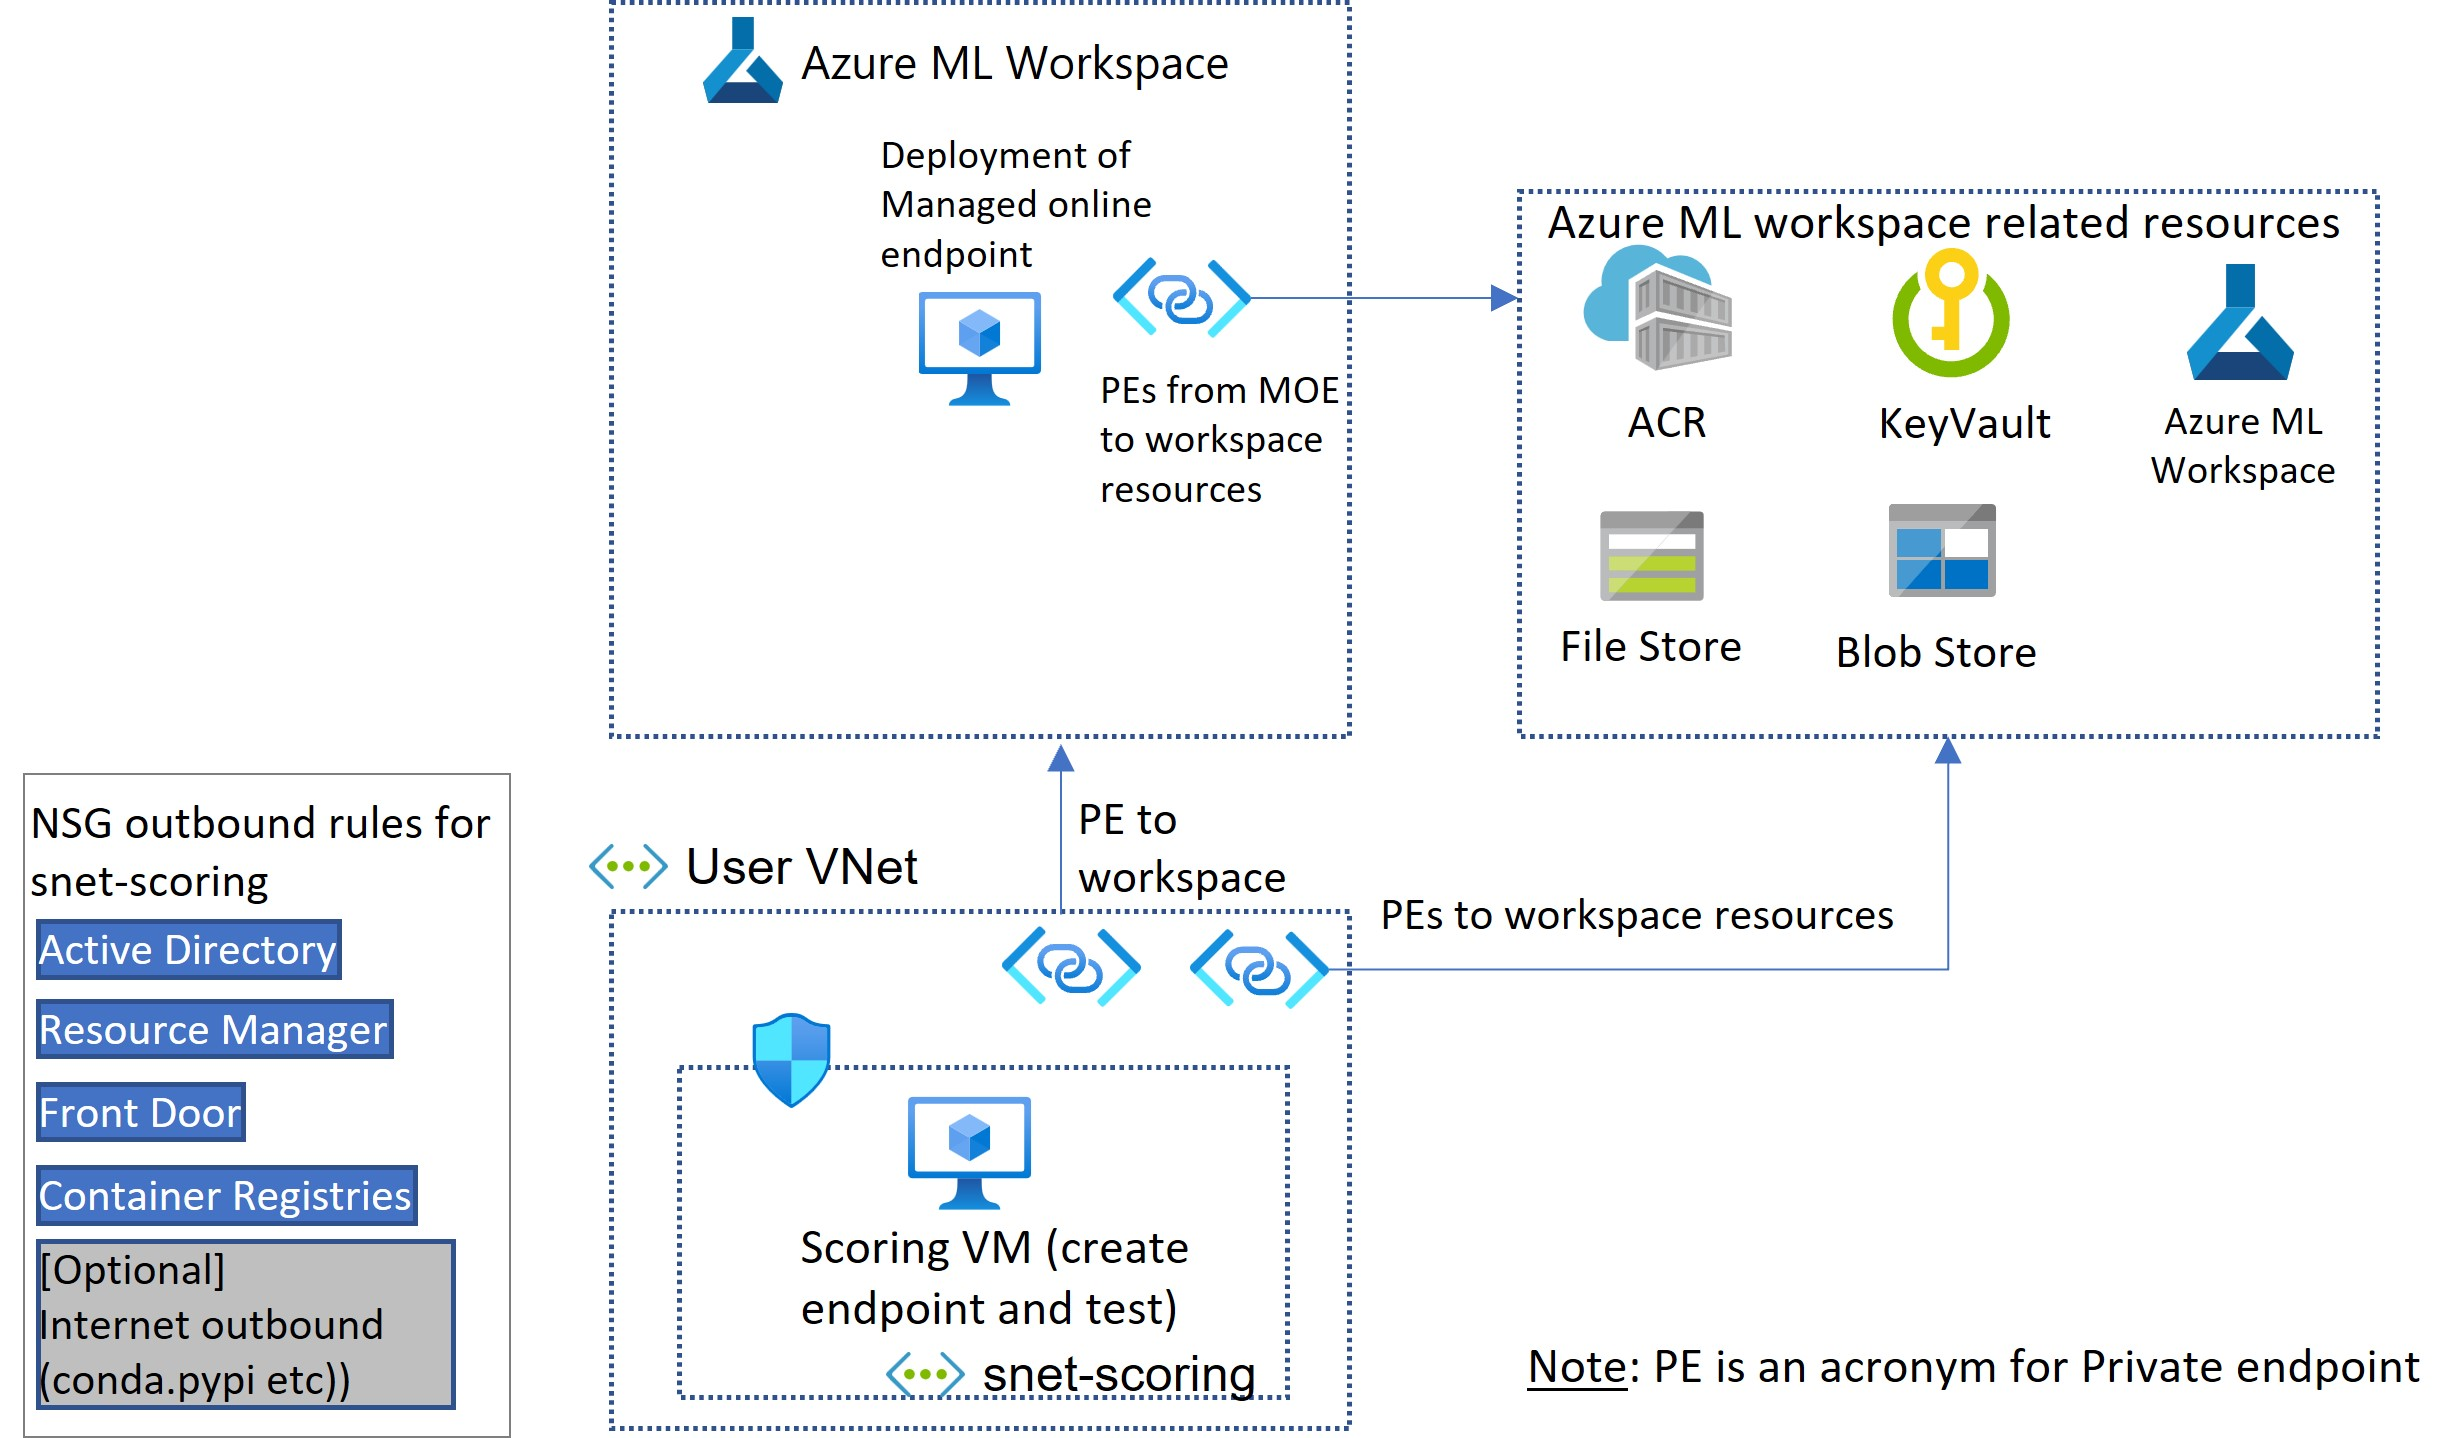
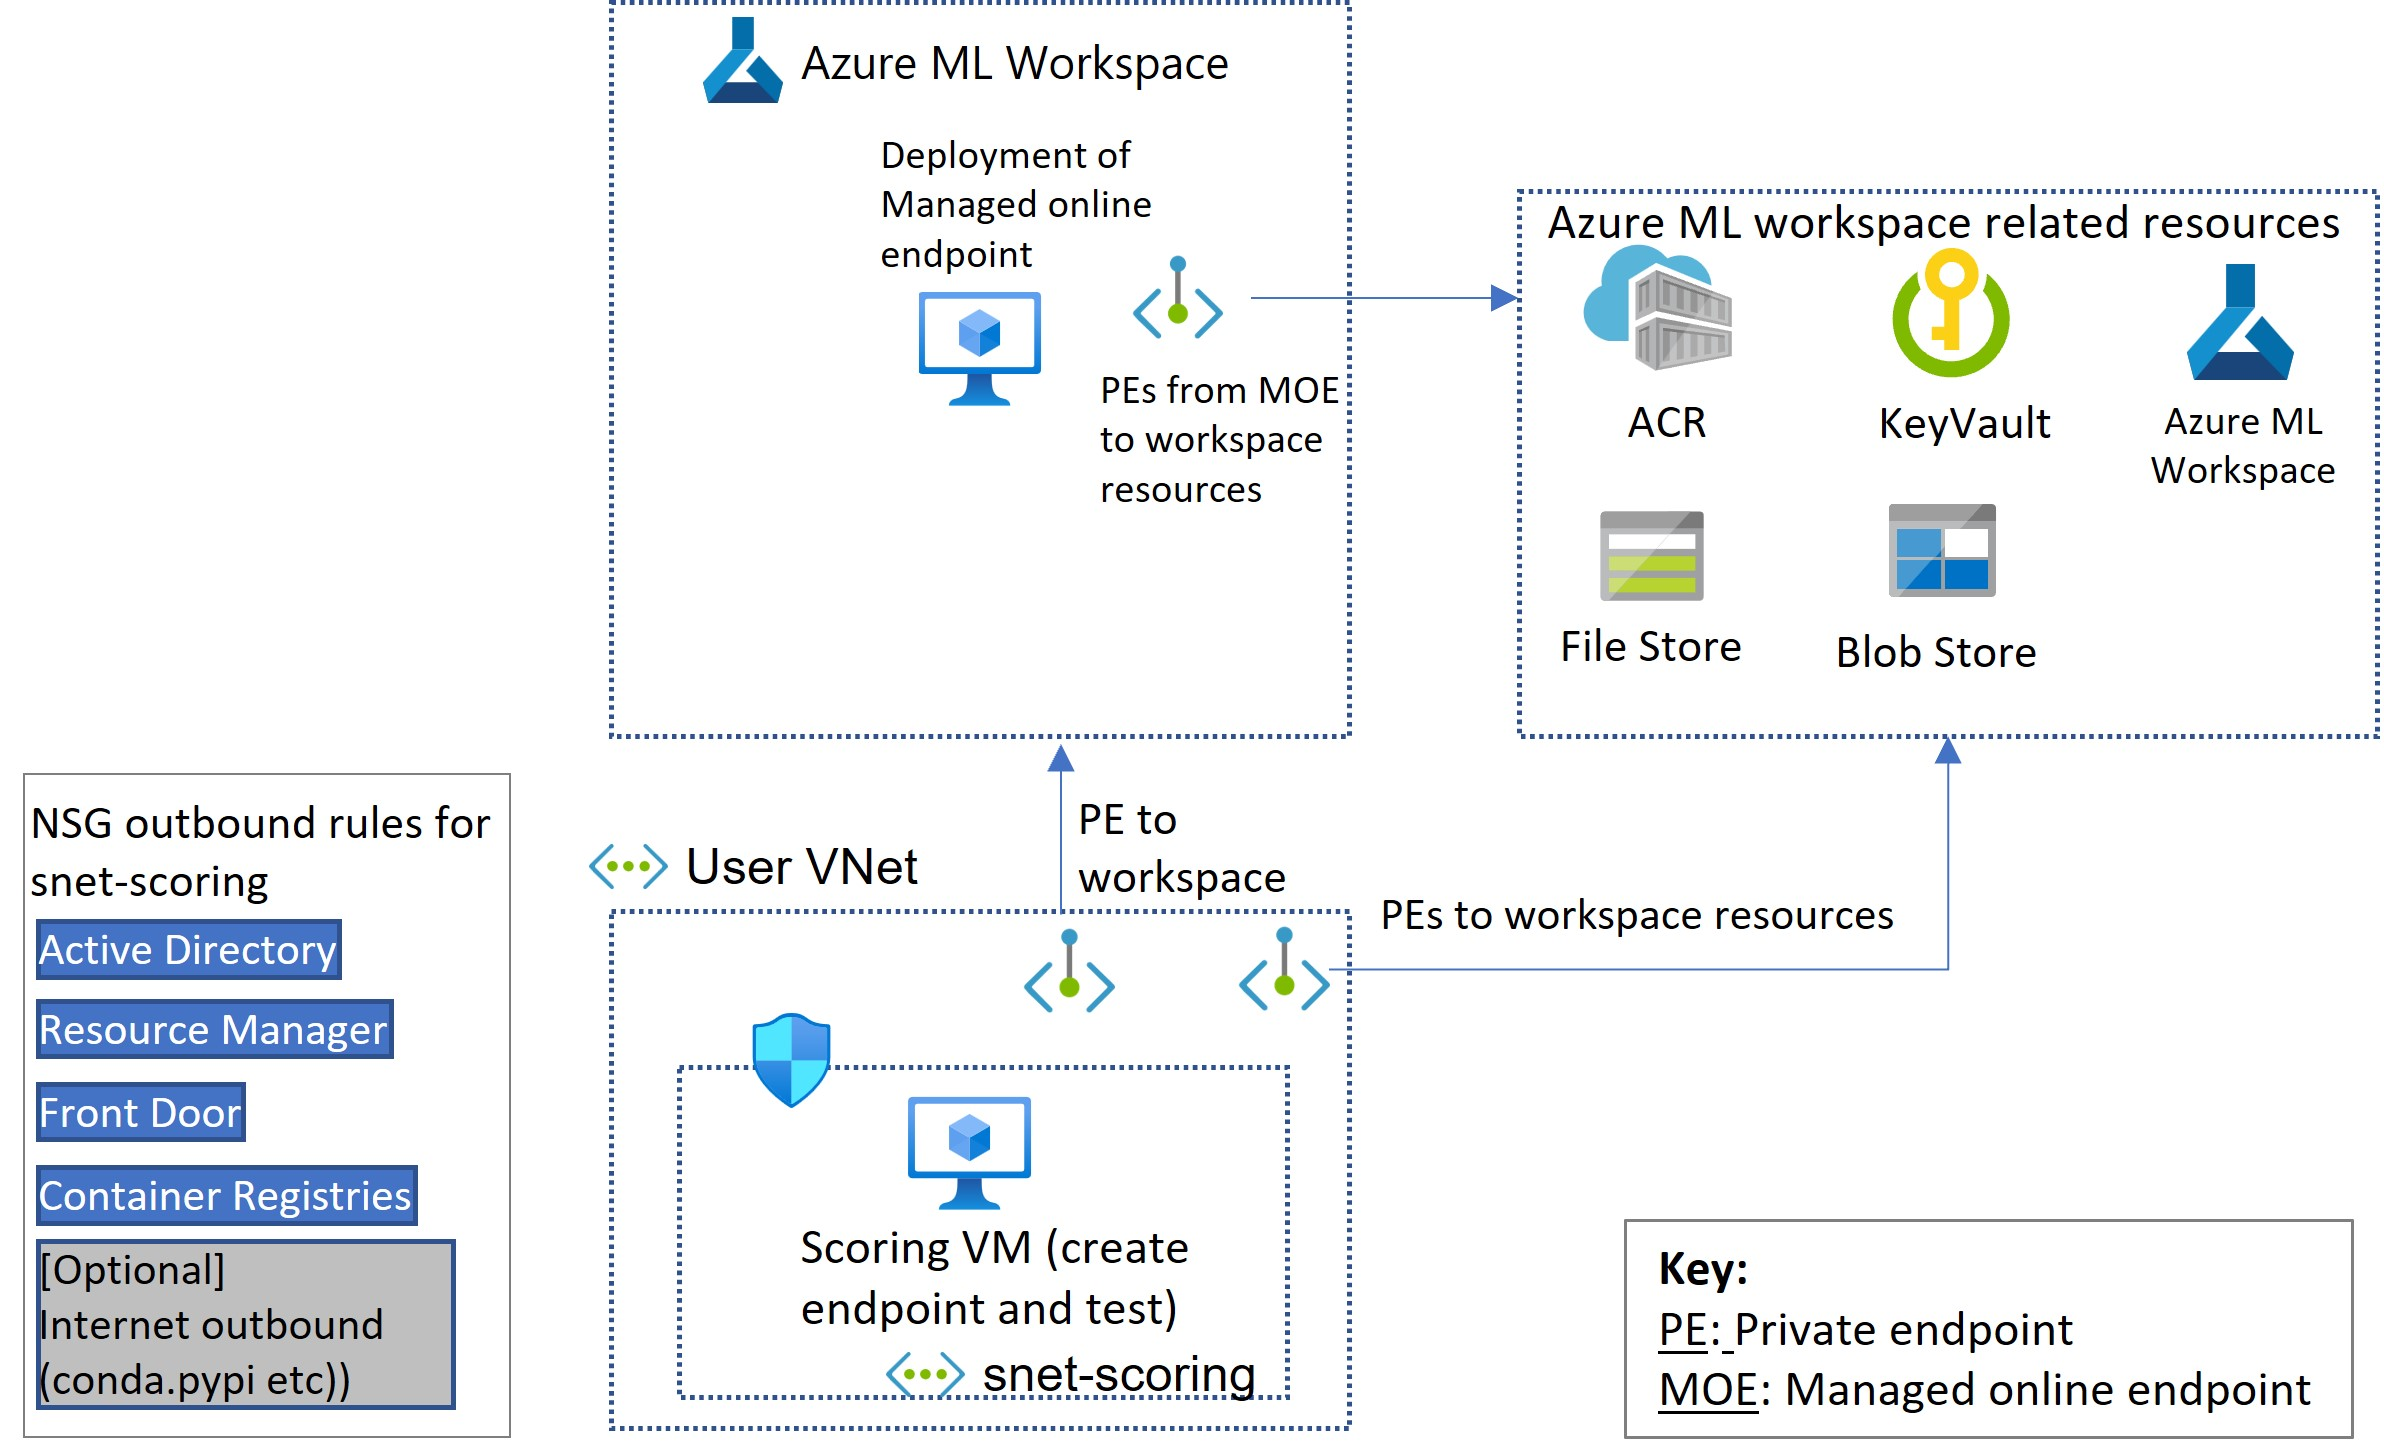
network isolation for managed online endpoints (#363)
* add the new endpoint visibility flag

* updates

* fix table

* fix doc

* updates

diff --git a/previews/moe-vnet/README.md b/previews/moe-vnet/README.md
@@ -8,15 +8,43 @@ Key benefits to the users are:
 1. Secure connectivity helps with Data Exfiltration Protection.
 2. No additional configuration is needed in user's VNET/NSG.
 
+## Control plane vs data plane operations
+In summary, scope of the the capablities described in this document is regarding the endpoints **data plane** operations. Details are explained below.
+
+Azure operations can be divided into two categories - [control plane and data plane](https://docs.microsoft.com/en-us/azure/azure-resource-manager/management/control-plane-and-data-plane). 
+
+### Control plane
+You use the control plane operations to manage resources in your subscription. All requests for control plane operations are sent to the Azure Resource Manager URL. The endpoint control plane operations include create, update, delete etc. All operations through CLI V2/ARM/REST fall under this category (for e.g. in case of online deployments, get-logs uses ARM). More information [here](https://docs.microsoft.com/en-us/azure/machine-learning/how-to-manage-workspace-cli?tabs=vnetpleconfigurationsv2cli%2Ccreatenewresources%2Cworkspaceupdatev1%2Cworkspacesynckeysv1%2Cworkspacedeletev1#secure-cli-communications). To secure the control plane operations, you have to 
+1. Setup [ARM private link (preview)](https://docs.microsoft.com/en-us/azure/azure-resource-manager/management/create-private-link-access-portal). Please be aware of the [limitations](https://docs.microsoft.com/en-us/azure/azure-resource-manager/management/create-private-link-access-portal#understand-architecture).
+1. Set the workspace flag `public_network_access` to `disabled`
+
+__Warning__: Currently ARM private link preview can be enabled only at tenant level. However you can skip this if your requirement is to secure the data plane (explained below).
+
+### Data plane
+The only data plane operation is to invoke/score your endpoint. Focus of rest of this document is to explain how to setup network isolation for this usecase flow.
+__This setup is independent of the control plane security configuration__. i.e. even if you choose not configure the above control plane security steps, you can fully configure data plane security.
+
 ## Concept
 
 ![High Level Architecture](./media/vnet_architecture.jpg)
 
-With workspace PE support, you can secure the ingress by creating a [PE to the workspace](https://docs.microsoft.com/en-us/azure/machine-learning/how-to-configure-private-link?tabs=azurecliextensionv2).
+### Secure the ingress (private preview)
+Endpoint visibility will be determined if there is a PE assoiciated with the workspace. Incase there is a PE, then endpoint visibility will be private. If there is no PE then the visiblity be public.
 
+### Secure the ingress (upcoming public preview)
+__Note:__ This is a heads up for public preview. Will not work with private preview yet.
+
+The goal here is to secure the model serving endpoint (scoring_uri) so that it can accessed only from a private IP from your vnet via a private endpoint. To secure the ingress, configure the following:
+1. [Setup a PE to the ML workspace](https://docs.microsoft.com/en-us/azure/machine-learning/how-to-configure-private-link?tabs=azurecliextensionv2).
+2. Visibility of the scoring endpoint is governed by an endpoint flag `public_network_access`.  If it is `disabled` then scoring endpoints can be accessed only from VNETs that have PEs to the workspace. If it is `enabled`, the scoring endpoint can be accessed both from the PEs and public networks.
+```bash
+az ml online-endpoint create -f endpoint.yml --set public_network_access=disabled
+```
+
+### Secure the egress
 With secure egress support, PE's are created from the managed endpoint deployment to workspace resources including ACR, KeyValut, Workspace, Filestore & Blob store. Internet access is not permitted. 
 
-When you create managed online deployments you have the option of setting a flag `private_network_connection true`. Now all system communication will use the PEs (downloading model, code, images etc to the container). Any user logic leveraging these resources will also use the PEs. No additional configuration in user’s vnet are required.
+When you create managed online deployments you have the option of setting a flag `private_network_connection` as `true`. Now all system communication will use the PEs (downloading model, code, images etc to the container). Any user logic leveraging these resources will also use the PEs. No additional configuration in user’s vnet are required.
 
 This is the syntax to create a managed online deployment with secure egress.
 ```bash
@@ -29,17 +57,37 @@ Visibility of the scoring endpoint is governed by the [workspace flag `public_ne
 
 __Note__: During this preview private endpoints to workspace resources are created per deployment - not per workspace as shown in the above diagram
 
-### Supported scenarios
+### Supported scenarios (upcoming public preview)
 
-|Workspace property | Deployment property | Supported?|
-|----------------|----------------------------------|---|
-| `public_access_enabled` is Enabled| `private_network_connection` is false (default) | Yes |
-| `public_access_enabled` is Disabled| `private_network_connection` is true) | Yes |
-
+| Scenario | Ingress mode (endpoint property) | Egress mode (Deployment property) | Supported? |
+| -------- | -------------------------------- | --------------------------------- | --------- |
+| secure ingress with secure egress | `public_network_access` is disabled | `private_network_connection` is true   | Yes |
+| secure ingress with public egress | `public_network_access` is dsiabled | `private_network_connection` is false  | Yes |
+| public ingress with secure egress | `public_network_access` is enabled | `private_network_connection` is true    | Yes |
+| public ingress with public egress | `public_network_access` is enabled | `private_network_connection` is false  | Yes |
 
 __Warning:__
-1. If you create a deployment with `private_network_connection true`, the workspace flag `public_access_enabled` will automatically be changed to `Disabled`
-1. If workspace public_network_access gets disabled for a workspace with existing public managed endpoints, then (a) the endpoints will not be publicly accessable (b) the public deployments will start failing
+If workspace flag `public_network_access` is `disabled`:
+1. only private deployments will be allowed to be created (i.e. deployments with `private_network_connection` is `true`).
+1. if it gets disabled for a workspace with existing public managed endpoints, then the public deployments will start failing.
+
+### ARM contract (upcoming public preview)
+
+Endpoint flag for public network access
+```json
+"properties": {
+        "publicNetworkAccess": "Enabled"
+}
+```
+The flag can take the values Enabled or Disabled.
+
+Deployment flag for private network connection
+```json
+"properties": {
+        "privateNetworkConnection": "True"
+}
+```
+The flag can take the values True or False
 
 ## End to end example
 ### Step 1: Prerequisites
@@ -72,8 +120,8 @@ cd azureml-examples/cli
 ```
    
 
-### Step 2: Create secure workspace
-If you have your own secure workspace setup, you could use that. Alternatively the below template will create the complete setup required for testing this feature:
+### Step 2: Create workspace and secured resources setup
+If you have your own workspace and secure resources setup, you could use that. Alternatively the below template will create the complete setup required for testing this feature:
 ![Sample setup](./media/vnet_sample_deployment_arch.jpg)
 ```bash
 # SUFFIX will be used as resource name suffix in created workspace and related resources
@@ -82,7 +130,7 @@ export SUFFIX="<UNIQUE_SUFFIX>"
 az deployment group create --template-file endpoints/online/managed/vnet/setup/main.bicep --parameters suffix=$SUFFIX
 ```
 The following resources will be created:
-1. Azure ML workspace with public_network_access as disabled
+1. Azure ML workspace with public_network_access as enabled
 2. ACR, storage and keyvault with public access disabled
 3. A user vnet that will be used for scoring. Private endpoints will be created from this VNET to the above resources: Azure ML workspace, ACR, Keyvault, File and Blob stores.
 4. A scoring subnet (snet-scoring) will be created with the outbound NSG rules as shown in the above picture. Internet outbound is enabled to get access to anaconda/pypi, get access to azureml-examples repo and download azure cli. You can disable it based on your needs.
@@ -167,7 +215,7 @@ As you will see in the next step, we will be using custom [container support](ht
 #### Alternate option
 Alternatively, you can build the docker image in your vnet using azure ml compute cluster and azure ml environments. Instructions [here](https://docs.microsoft.com/en-us/azure/machine-learning/how-to-secure-workspace-vnet?tabs=pe%2Ccli#enable-azure-container-registry-acr).
 
-### Step 5: Create managed online endpoint and deployment
+### Step 5: Create managed online endpoint with secure ingress and deployment with secure egress
 We will use the example [here](https://docs.microsoft.com/en-us/azure/machine-learning/how-to-deploy-managed-online-endpoints#deploy-to-azure) to create the endpoint and deployment
 
 ```bash
@@ -175,13 +223,13 @@ We will use the example [here](https://docs.microsoft.com/en-us/azure/machine-le
 cd /home/samples/azureml-examples/cli/
 # enable private preivew features in cli
 export AZURE_ML_CLI_PRIVATE_FEATURES_ENABLED=true
-# create endpoint
-az ml online-endpoint create --name $ENDPOINT_NAME -f endpoints/online/managed/vnet/endpoint.yml
+# public_network_access flag is expected to be added for public preview
+az ml online-endpoint create --name $ENDPOINT_NAME -f endpoints/online/managed/vnet/endpoint.yml # --set public_network_access="disabled"
 # create deployment with private_network_connection="true"
 az ml online-deployment create --name blue --endpoint $ENDPOINT_NAME -f endpoints/online/managed/vnet/blue-deployment-vnet.yml --all-traffic --set environment.image="$ACR_NAME.azurecr.io/repo/img:v1" private_network_connection="true"
 ```
 
-Note the flag  `--set private_network_connection true`.
+Note the flags `--set public_network_access=disabled` in the endpoint creation and `--set private_network_connection=true` in the deployment creation.
 
 Now you can test scoring using the `invoke` command from the cli or using curl
 ```bash
